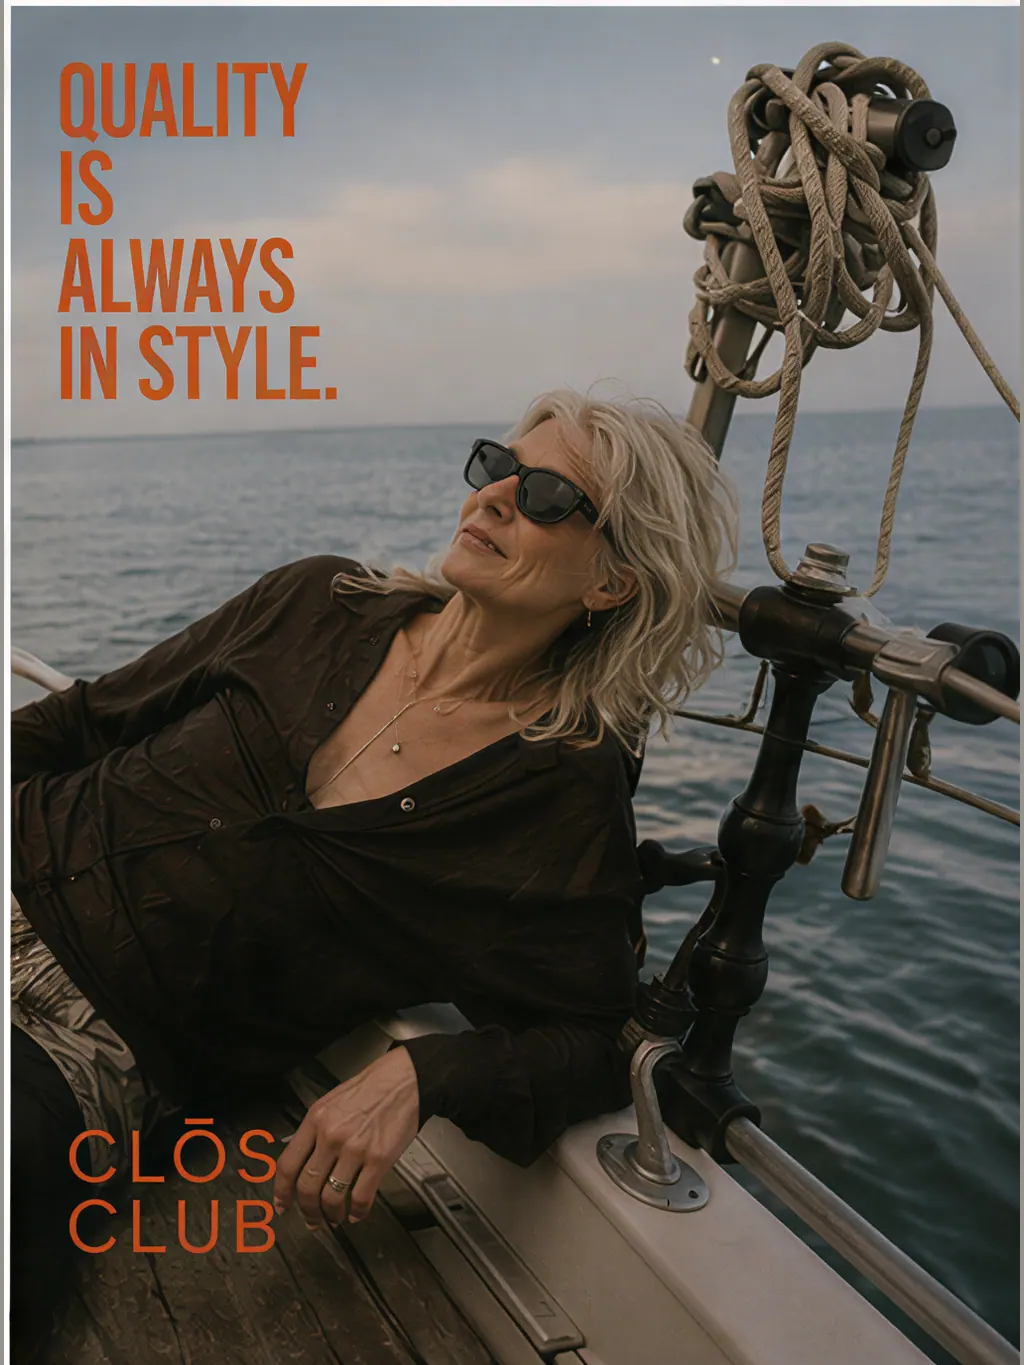
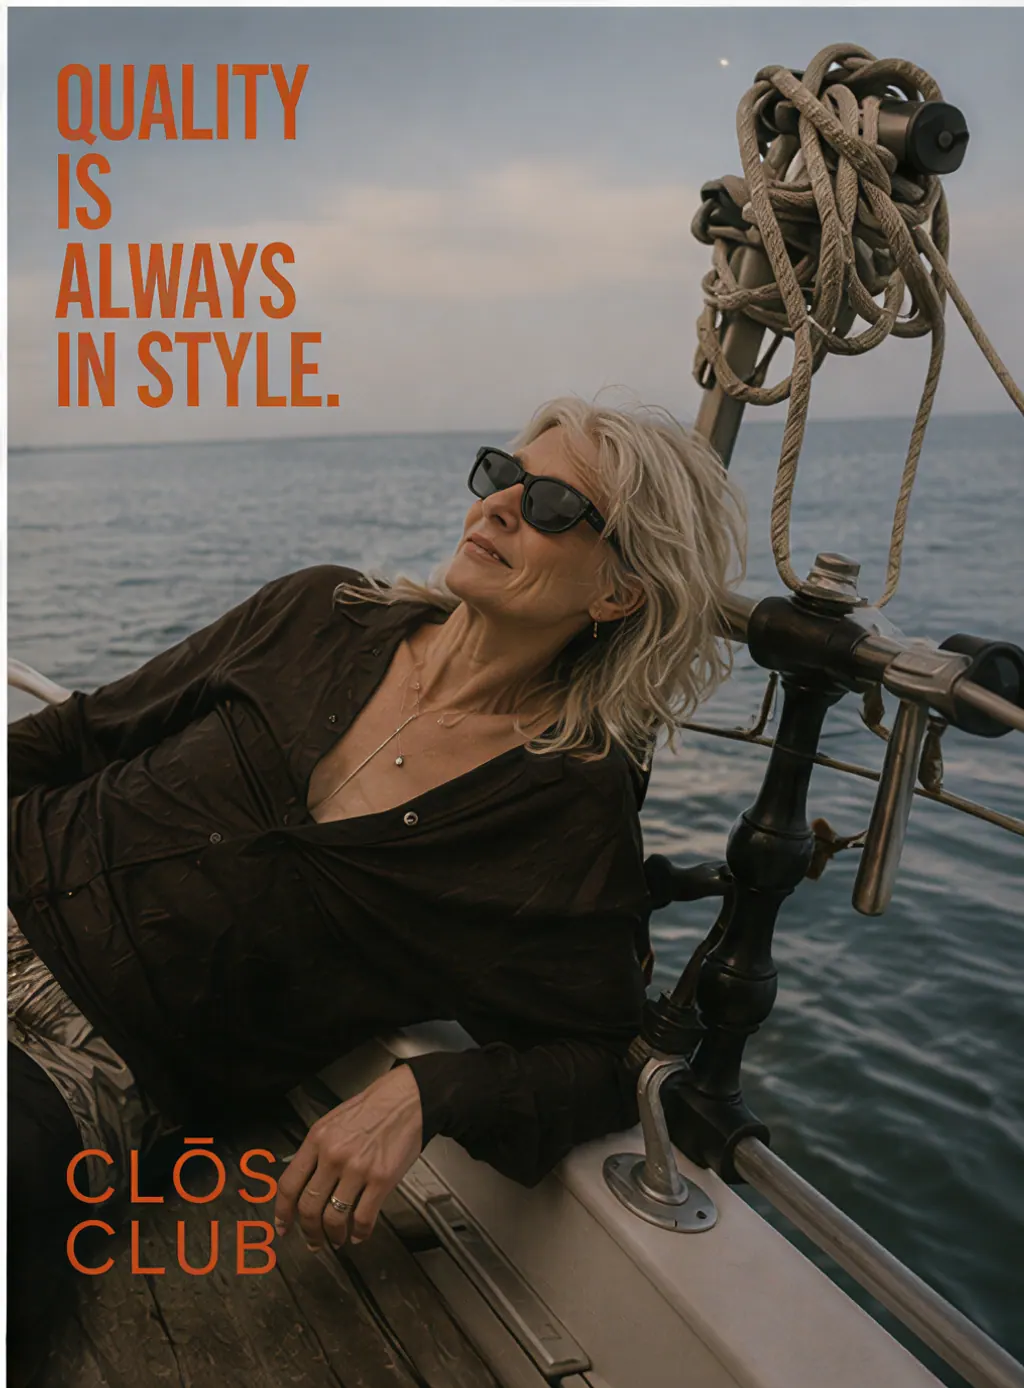
Make every magazine page the same size and fill the sheet
The pages were fitted inside the sheet and the leftover filled with a
colour sampled from each poster's own border. That gave every page a
different margin and a visible seam where the fill met the artwork —
random and different, page to page.

Now the posters are cropped to fill, and the page ratio is picked so
that cropping is safe: 1024x1388 is the ratio of the TALLEST poster in
the set, so no page ever loses height and nothing is trimmed off the top
or bottom. Wider posters are cropped from the right, because the campaign
sets all its type flush left — the widest loses 12% of its width, all of
it background. The script now throws if a source is taller than the page
rather than silently cropping into the type.

That rules out the four 2:3 posters from upscaled/: they are a different
format from the rest of the campaign, and fitting them to a shared page
cuts either the wordmark or the store badges. Four 3:4 posters replace
them, verified the same way as the rest.

Also closes a hairline down the fold: two exact halves round apart at odd
container widths, so the base page now overlaps the spine by 0.2%.

32 pages, all 1024x1388, 2.95 MB.

diff --git a/src/components/PosterMagazine.tsx b/src/components/PosterMagazine.tsx
@@ -6,7 +6,7 @@ interface PosterMagazineProps {
   pages: string[];
   /** Names the work for screen readers, e.g. the project title. */
   label?: string;
-  /** Page shape. Must match the encoded assets so nothing letterboxes twice. */
+  /** Page shape. Must match the encoded assets exactly, or object-cover crops again. */
   pageRatio?: number;
   className?: string;
 }
@@ -30,7 +30,7 @@ interface PosterMagazineProps {
  * `turned` — the number of leaves already flipped — is the only state; the
  * whole spread derives from it.
  */
-const PosterMagazine = ({ pages, label = "", pageRatio = 1024 / 1365, className }: PosterMagazineProps) => {
+const PosterMagazine = ({ pages, label = "", pageRatio = 1024 / 1388, className }: PosterMagazineProps) => {
   const srcs = useMemo(() => pages.map(normalizePublicAssetPath), [pages]);
   // Leaf i shows page 2i+1 on its front and page 2i+2 on its back, so the very
   // first page sits under every leaf as the left half of the opening spread.
@@ -141,7 +141,10 @@ const PosterMagazine = ({ pages, label = "", pageRatio = 1024 / 1365, className 
               aria-label="Previous page"
               onClick={() => goTo(turned - 1)}
               disabled={turned === 0}
-              className="absolute inset-y-0 left-0 w-1/2 cursor-w-resize overflow-hidden rounded-l-sm disabled:cursor-default"
+              // A hair past half: at odd container widths two exact halves round
+              // apart and leave a hairline of background down the fold. The
+              // overlap sits under the leaves, so it is never visible.
+              className="absolute inset-y-0 left-0 w-[50.2%] cursor-w-resize overflow-hidden rounded-l-sm disabled:cursor-default"
             >
               {page(srcs[0], 1, "left", true)}
             </button>

diff --git a/src/content/projects/visual-identity/clos-club.md b/src/content/projects/visual-identity/clos-club.md
@@ -4,45 +4,45 @@ slug: "clos-club"
 service: "visual-identity"
 location: "Barcelona, Spain"
 year: "2026"
-heroImage: "public/images/services/visual-identity/clos-club/01-clothes-remember.webp"
+heroImage: "public/images/services/visual-identity/clos-club/04-great-taste-doesnt-shout.webp"
 heroImagePosition: "center top"
-thumbnailImage: "public/images/services/visual-identity/clos-club/02-pieces-outlive.webp"
+thumbnailImage: "public/images/services/visual-identity/clos-club/01-dont-stay-they-travel.webp"
 galleryBackground: "#141210"
 order: 4
 featured: false
 magazinePages:
-  - "public/images/services/visual-identity/clos-club/01-clothes-remember.webp"
-  - "public/images/services/visual-identity/clos-club/02-pieces-outlive.webp"
-  - "public/images/services/visual-identity/clos-club/03-collected-over-time.webp"
-  - "public/images/services/visual-identity/clos-club/04-never-stay-still.webp"
-  - "public/images/services/visual-identity/clos-club/05-dont-stay-they-travel.webp"
-  - "public/images/services/visual-identity/clos-club/06-wardrobe-never-ends.webp"
-  - "public/images/services/visual-identity/clos-club/07-some-pieces-find-you.webp"
-  - "public/images/services/visual-identity/clos-club/08-another-chapter.webp"
-  - "public/images/services/visual-identity/clos-club/09-keep-passing-on.webp"
-  - "public/images/services/visual-identity/clos-club/10-not-new-not-old.webp"
-  - "public/images/services/visual-identity/clos-club/11-personal-language.webp"
-  - "public/images/services/visual-identity/clos-club/12-make-sense.webp"
-  - "public/images/services/visual-identity/clos-club/13-has-a-past.webp"
-  - "public/images/services/visual-identity/clos-club/14-style-travels.webp"
-  - "public/images/services/visual-identity/clos-club/15-should-be-new.webp"
-  - "public/images/services/visual-identity/clos-club/16-every-you-a-future.webp"
-  - "public/images/services/visual-identity/clos-club/17-next-story.webp"
-  - "public/images/services/visual-identity/clos-club/18-nothing-new.webp"
-  - "public/images/services/visual-identity/clos-club/19-its-next.webp"
-  - "public/images/services/visual-identity/clos-club/20-collected-slowly.webp"
-  - "public/images/services/visual-identity/clos-club/21-exceptional-things-travel.webp"
-  - "public/images/services/visual-identity/clos-club/22-beautiful-things-keep-moving.webp"
-  - "public/images/services/visual-identity/clos-club/23-a-cycle.webp"
+  - "public/images/services/visual-identity/clos-club/01-dont-stay-they-travel.webp"
+  - "public/images/services/visual-identity/clos-club/02-keep-passing-on.webp"
+  - "public/images/services/visual-identity/clos-club/03-another-chapter.webp"
+  - "public/images/services/visual-identity/clos-club/04-great-taste-doesnt-shout.webp"
+  - "public/images/services/visual-identity/clos-club/05-some-pieces-find-you.webp"
+  - "public/images/services/visual-identity/clos-club/06-not-new-not-old.webp"
+  - "public/images/services/visual-identity/clos-club/07-good-taste-never-goes-out.webp"
+  - "public/images/services/visual-identity/clos-club/08-make-sense.webp"
+  - "public/images/services/visual-identity/clos-club/09-wardrobe-never-ends.webp"
+  - "public/images/services/visual-identity/clos-club/10-has-a-past.webp"
+  - "public/images/services/visual-identity/clos-club/11-every-you-a-future.webp"
+  - "public/images/services/visual-identity/clos-club/12-style-travels.webp"
+  - "public/images/services/visual-identity/clos-club/13-next-story.webp"
+  - "public/images/services/visual-identity/clos-club/14-personal-language.webp"
+  - "public/images/services/visual-identity/clos-club/15-its-next.webp"
+  - "public/images/services/visual-identity/clos-club/16-yours-now.webp"
+  - "public/images/services/visual-identity/clos-club/17-nothing-new.webp"
+  - "public/images/services/visual-identity/clos-club/18-exceptional-things-travel.webp"
+  - "public/images/services/visual-identity/clos-club/19-should-be-new.webp"
+  - "public/images/services/visual-identity/clos-club/20-some-get-to-be-worn.webp"
+  - "public/images/services/visual-identity/clos-club/21-beautiful-things-keep-moving.webp"
+  - "public/images/services/visual-identity/clos-club/22-a-cycle.webp"
+  - "public/images/services/visual-identity/clos-club/23-shared-closely.webp"
   - "public/images/services/visual-identity/clos-club/24-quality-in-style.webp"
   - "public/images/services/visual-identity/clos-club/25-a-journey-not-a-season.webp"
-  - "public/images/services/visual-identity/clos-club/26-shared-closely.webp"
-  - "public/images/services/visual-identity/clos-club/27-worn-well-lived-in.webp"
-  - "public/images/services/visual-identity/clos-club/28-whats-meant-for-you.webp"
-  - "public/images/services/visual-identity/clos-club/29-better-memories.webp"
-  - "public/images/services/visual-identity/clos-club/30-someone-loved-it.webp"
-  - "public/images/services/visual-identity/clos-club/31-yours-now.webp"
-  - "public/images/services/visual-identity/clos-club/32-some-get-to-be-worn.webp"
+  - "public/images/services/visual-identity/clos-club/26-worn-well-lived-in.webp"
+  - "public/images/services/visual-identity/clos-club/27-whats-meant-for-you.webp"
+  - "public/images/services/visual-identity/clos-club/28-someone-loved-it.webp"
+  - "public/images/services/visual-identity/clos-club/29-collected-slowly.webp"
+  - "public/images/services/visual-identity/clos-club/30-better-memories.webp"
+  - "public/images/services/visual-identity/clos-club/31-every-wardrobe-history.webp"
+  - "public/images/services/visual-identity/clos-club/32-belong-to-no-one.webp"
 tags:
   - brand
   - campaign
